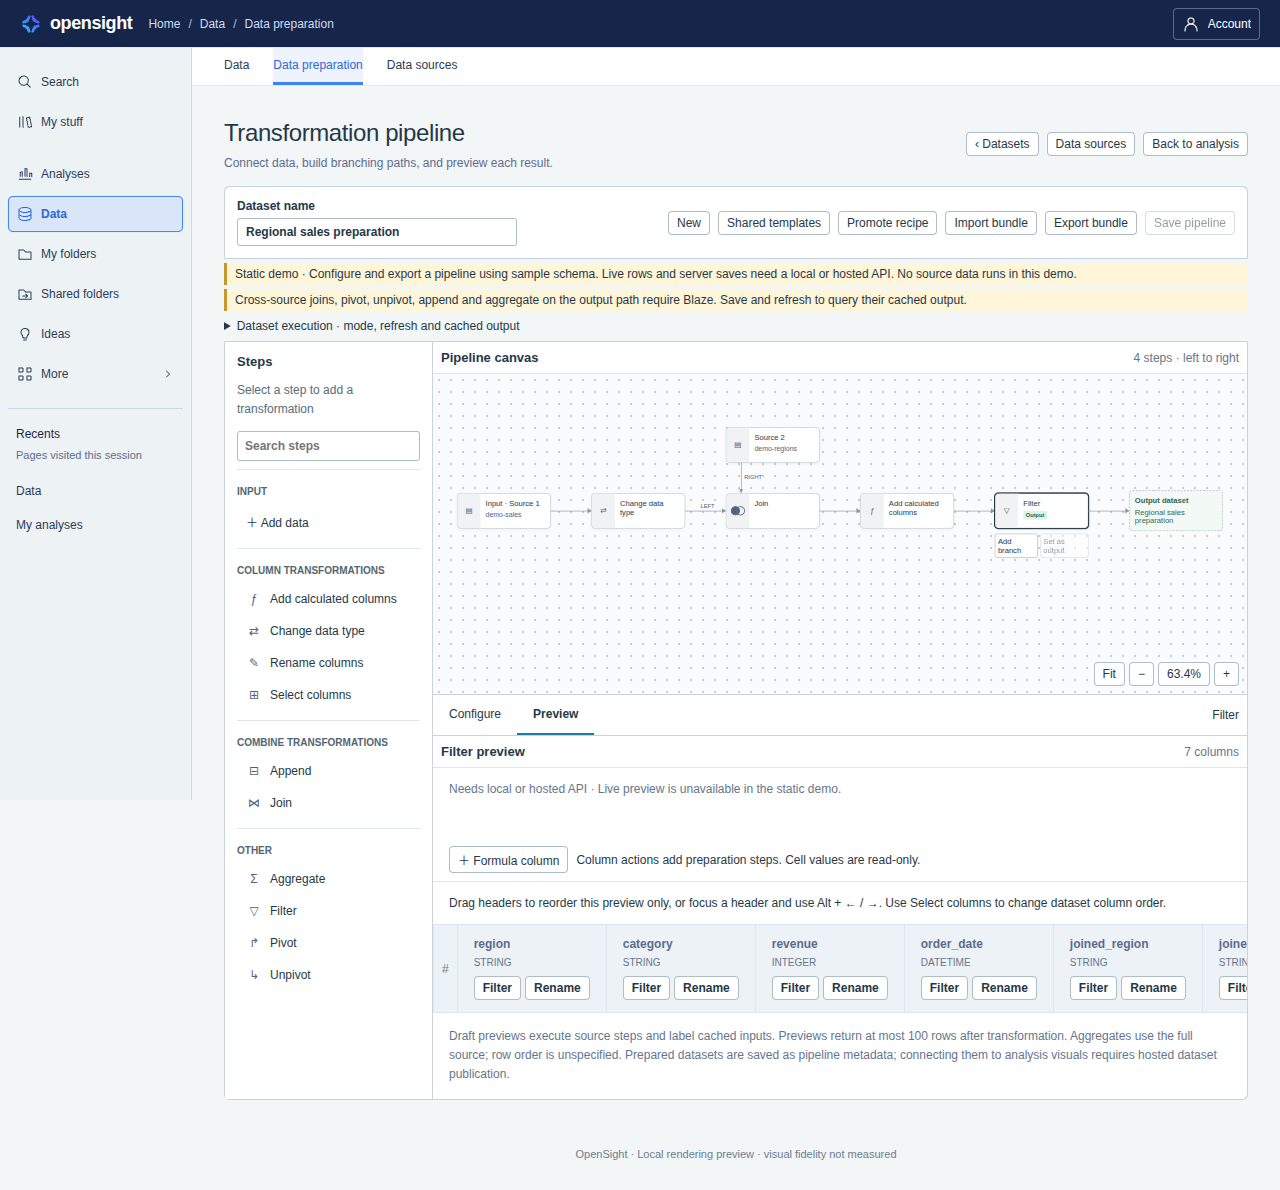
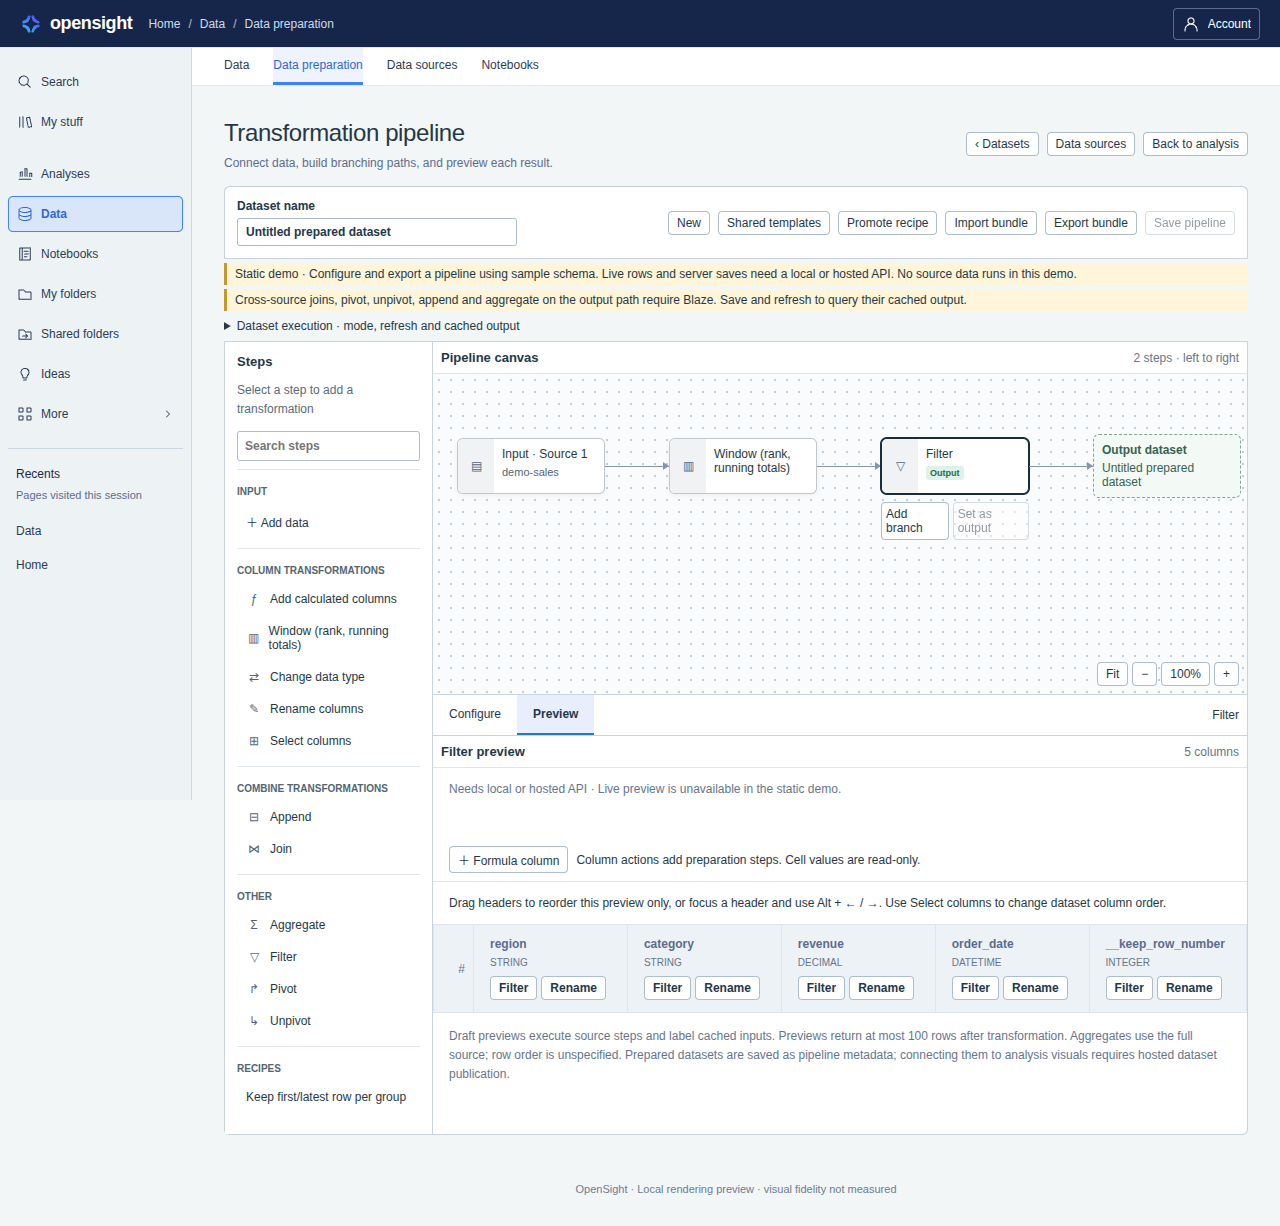
Issue 278 item 5: document semantics and record full verification

diff --git a/docs/data-prep.md b/docs/data-prep.md
@@ -1,4 +1,4 @@
-# Dataset preparation (issues #9, #11, #14, #17, #18, and #58)
+# Dataset preparation (issues #9, #11, #14, #17, #18, #58, and #278)
 
 The Preview tab also offers [spreadsheet-style column actions](familiar-surface.md)
 for formula columns, filters, and renames (#156), all using the operations below.
@@ -7,7 +7,7 @@ The Data preparation view builds a branching transformation pipeline over source
 from the connector registry. Open it from Data sources → Prepare data, the mode
 picker, or the analysis editor's Data → Prepare data menu. The persistent left
 **Steps** panel groups Input, Column transformations, Combine transformations
-and Other. The canvas shows resolved left-input paths and one
+Other, and Recipes. The canvas shows resolved left-input paths and one
 node per connected or prepared input, with LEFT/RIGHT labels on join connections.
 Secondary source nodes sit above their consuming step; earlier-step right inputs
 remain selectable links to their existing result. Repeated joins show distinct
@@ -57,7 +57,8 @@ Primary `input` and a join's `config.source` may also be
 to reuse an earlier result in the same pipeline, including a joined result. Their
 left side defaults to the preceding stage and can use an explicit `from` reference. Moving/removing a referenced step leaves
 an explicit validation error. Existing string references and version-1 bundles
-remain valid. Append configuration is unchanged.
+remain valid. Append still accepts `{source}`; optional `duplicates` selects `keep`
+(the default) or `dedupe` without changing existing pipelines.
 
 Source IDs are references, never SQL, credentials, URLs, or filesystem paths.
 The host resolves them to existing connector bindings. An imported bundle cannot
@@ -170,11 +171,93 @@ expressions use the Phase 2c parser, type system, and per-dialect function libra
 | `select` | `columns` | Keep a nonempty ordered column list. Missing/duplicate names fail. |
 | `filter` | `filters` | AND of `{columnName, value, operator?}` or `{columnName, values}`. EQUALS, GREATER_THAN_OR_EQUAL_TO, LESS_THAN_OR_EQUAL_TO; lists support equality only. Values must match the type. Empty lists match nothing; null never matches. Boolean predicates are unsupported. Dates use ISO dates or UTC timestamps. |
 | `calculate` | `name`, `expression` | Add a typed row expression. Visual aggregation, level-aware and table calculations are rejected here; their existing visual post-processing is unchanged. |
+| `window` | Structured `{name, function, valueColumn?, partitionBy, orderBy, frameBefore?, frameAfter?, buckets?, offset?}` or advanced `{name, expression}` | Adds one typed window column, retaining all input columns. Explicit step-local ordering is required; see below. |
 | `aggregate` | `groupBy`, `measures` | Measures are `{column, name, aggregation}`; SUM, AVG, COUNT, MIN, MAX. Empty group list aggregates the full input. COUNT counts nonnull column values. SUM/AVG require numeric input. Empty/all-null input follows SQL aggregate semantics. |
 | `join` | `source`, `joinType`, `keys`, exactly one of `columns` or `prefix` | inner/left/right/full equijoin. Keys are `{left,right}`, combined with AND and requiring identical types. All left columns are retained; outer joins extend unmatched sides with nulls. Null keys do not match; duplicate keys multiply rows. Right keys are not coalesced into left keys. |
-| `append` | `source` | UNION ALL; identical names and types required, order aligned by name. Duplicate rows are retained. |
+| `append` | `source`, optional `duplicates: "keep" \| "dedupe"` | Absent/keep uses UNION ALL; dedupe uses UNION over all output columns, including nulls. Identical names and types are required in both modes, aligned by name. |
 | `pivot` | `groupBy`, `column`, `value`, `aggregation`, `values` | Values are explicit `{value,name}` output definitions with unique typed keys. Conditional aggregation produces a stable schema. Unlisted/null keys contribute no measure; their groups can still appear. No data-dependent column discovery. |
 | `unpivot` | `columns`, `nameColumn`, `valueColumn` | Selected columns must share a type. Each input row produces one row per selected column. Names become values, null cells are kept, and unselected columns repeat. |
+
+### Window configuration (#278)
+
+**Window (rank, running totals)** adds a column without collapsing its input.
+The structured editor has a function, output name, value column when applicable,
+**Partition by (restart for each)** and an ordered, reorderable **Order by** list
+with per-column `asc`/`desc` direction. Partitions and ordering come exclusively
+from the step; preview sorting and upstream grouping never supply either.
+Both DuckDB and Postgres compile native window SQL. Window alone does not require
+Blaze; upstream materialization requirements still apply.
+
+```json
+{
+  "id": "running-sales", "kind": "window",
+  "config": {
+    "name": "running_sales", "function": "runningTotal", "valueColumn": "sales",
+    "partitionBy": ["region"],
+    "orderBy": [{"column": "date", "direction": "asc"}, {"column": "id", "direction": "asc"}]
+  }
+}
+```
+
+| Function | Value and settings | Result |
+| --- | --- | --- |
+| `rowNumber`, `rank`, `denseRank` | No value column | INTEGER; rank preserves peer ties, dense rank has no gaps |
+| `ntile` | Required positive `buckets`; no value column | INTEGER bucket |
+| `runningTotal`, `runningAverage` | Numeric `valueColumn`; ROWS from unbounded preceding through current row | DECIMAL, matching aggregate SUM/AVG casts |
+| `movingSum`, `movingAverage` | Numeric `valueColumn`; nonnegative `frameBefore`/`frameAfter`, each defaulting to 0 | DECIMAL; ROWS includes the current row, clipped at partition boundaries |
+| `lag`, `lead` | Any typed `valueColumn`; positive `offset`, default 1 | Preserves the input type; missing neighbors yield null |
+
+Numeric inputs are INTEGER or DECIMAL. Counts are integers at most 2,147,483,647,
+matching the common dialect argument range. Inapplicable settings are forbidden,
+including value columns for ranking/buckets, frames for non-moving functions,
+offsets outside lag/lead, and buckets outside ntile. Missing columns, invalid
+numeric types, duplicate output names and outputs exceeding 256 columns fail
+with named prep errors. SQL aggregate null behavior applies to running/moving
+functions. Both dialects use `NULLS LAST` for either direction.
+
+**Ordering rule:** every function requires at least one explicit Order by column.
+An empty list (or advanced OVER without ORDER BY) fails before SQL execution with
+`PREP_WINDOW_ORDER_REQUIRED` at the config's `orderBy`/`expression` path, including
+when previewing an earlier step. For stable row numbers and row-relative results,
+authors must include unique tie-breaker columns within each partition. This is
+the brief's nonempty-order validation rule: source metadata has no unique-key
+contract, so compilation cannot verify uniqueness of actual data. Tied row-number
+orders are not proven deterministic; the UI makes the tie-breaker requirement
+explicit. Rank/dense rank deliberately retain their configured peer groups.
+
+**Advanced mode** uses exactly `{name, expression}`. The expression carries its
+entire OVER clause; no structured fields may accompany it. A dedicated bounded,
+non-recursive parser accepts one of:
+
+- `ROW_NUMBER()`, `RANK()`, `DENSE_RANK()`, `NTILE(positive_integer)`.
+- `LAG(column[, positive_integer])`, `LEAD(column[, positive_integer])`.
+- `SUM(column)`, `AVG(column)` with an explicit supported ROWS frame.
+
+Each call is followed by `OVER ([PARTITION BY column, ...] ORDER BY column
+[ASC|DESC], ... [ROWS BETWEEN ...])`. Keywords are case-insensitive, omitted
+directions mean ASC, and column references are exact schema names: either bare
+ASCII identifiers (`[A-Za-z_][A-Za-z_0-9]*`) or SQL double-quoted identifiers with
+embedded quotes doubled. SUM/AVG require either `ROWS BETWEEN UNBOUNDED PRECEDING
+AND CURRENT ROW` for a running calculation, or `ROWS BETWEEN n PRECEDING AND m
+FOLLOWING` for a moving calculation; CURRENT ROW is also accepted for either
+zero bound. Other functions forbid frames. Expressions are limited to 10,000
+characters / 4,096 tokens and the same 256-entry lists as structured configs.
+
+For example: `SUM("sales") OVER (PARTITION BY "region" ORDER BY "date", "id"
+ROWS BETWEEN 2 PRECEDING AND CURRENT ROW)`. Multiple calls, nesting, arithmetic,
+comments, arbitrary SQL, RANGE frames and non-window expressions fail closed
+with `UNSUPPORTED_PREP_STEP`; malformed structured settings use
+`INVALID_PREP_PIPELINE`, and missing columns/type mismatches use
+`PREP_SCHEMA_MISMATCH`. No raw expression text is interpolated into SQL. The
+ordinary Calculate expression language is unchanged. Switching editor modes
+retains each mode's independent draft.
+
+**Keep first/latest row per group** inserts two steps: rowNumber followed by an
+EQUALS 1 filter. Its generated `__keep_row_number` column gains a suffix if needed
+to avoid a case-insensitive collision. Configure the window's partition columns
+and order (ascending for first, descending for latest, with tie-breakers); the
+recipe intentionally starts without order and displays the named error until
+configured. The number column remains in the output; a Select step can remove it.
 
 **Deliberate difference from QuickSight — append schema leniency (#19).**
 QuickSight's Append aligns columns by name and tolerates differing column

diff --git a/docs/issue-278-gap-notes.md b/docs/issue-278-gap-notes.md
@@ -1,0 +1,118 @@
+# Issue #278 — prep Window and append dedupe
+
+Built on `work/issue-278-window-append-dedupe` from `b6f180c9` under the
+supplied run brief. No dependencies, AWS calls, external network access, merge,
+push or changes to `SOLUTION_DESIGN.md`. No #279/#280 scope was implemented.
+
+## Behavior and boundaries
+
+[Dataset preparation](data-prep.md#window-configuration-278) documents the exact
+structured and advanced shapes, the ten functions, bounds, types, explicit
+partition/order semantics, null placement and the two-step recipe. Advanced
+mode uses `{name, expression}` with the entire OVER clause inside the expression.
+A dedicated bounded parser accepts only the supported calls and frames; it
+never changes the ordinary calculated-field expression language or forwards raw
+SQL. Append's optional `duplicates` is `keep` or `dedupe`; omission preserves
+existing UNION ALL SQL. Both modes retain the identical-name/type schema check.
+
+The compiler follows the brief's explicit nonempty-order validation rule:
+`PREP_WINDOW_ORDER_REQUIRED` rejects every function without its own order. This
+is **not proof of unique ordering**: existing column metadata carries no unique
+keys. Authors must supply unique tie-breakers for deterministic row numbers and
+row-relative calculations. This limitation is disclosed in the UI and semantics
+doc; data-dependent tie rejection is not implemented. The brief's broader
+"guarantee" wording cannot be established by the specified metadata-only rule.
+
+Both dialects support every function. The tests execute DuckDB and local PGlite
+(Postgres), including nulls, tied ranks, mixed directions, type preservation,
+frames, offsets, quoting and grammar rejection. Integer arguments are capped at
+2,147,483,647 for the common native dialect range. Moving bounds default to zero;
+the structured editor starts a moving window at one row before/current row.
+SUM/AVG use the same floating-point casts and DECIMAL result convention as the
+existing aggregate compiler. NULLS LAST is explicit for both directions.
+
+Blaze policy is unchanged: a window is a single-input CTE transform and stays on
+the direct path. A policy regression covers the window/filter recipe. Existing
+upstream requirements still apply. The recipe helper avoids name collisions and
+insertion validates the 50-step budget atomically before changing the draft.
+
+## Visual review
+
+Rebuilt `packages/web/dist/opensight-demo.html` and embed artifacts with
+`npm run build:demo --workspace @opensight/web`. The local static demo still
+shows schema-only previews and the need for a local/hosted API; it was not
+presented as a deployed server.
+
+Compared captures with the prior `docs/images/data-prep.png` and supplied
+`lookfeel-references/qs-2026/qs-data-prep-new.jpg`: the left grouped step picker,
+dotted graph canvas and bottom Configure/Preview panel remain intact. Window
+configuration uses the existing compact form controls and reorderable column
+lists. The advanced toggle's checkbox alignment was corrected during review.
+Existing differences in navigation, chrome, spacing and graph layout remain;
+QuickSight visual fidelity is not measured. No new visual defect was identified
+for a separate issue; no remote issue was filed under the no-network instruction.
+
+The README hero GIF was regenerated with a local adaptation of
+`~/workspace/tools/screenshots/readme-gif.mjs` against the rebuilt demo, using its
+FFmpeg palette workflow. `docs/images/data-prep.png` now includes Window and the
+recipe in the picker and the two-step graph. Browser checks cover the recipe's
+missing-order error, structured controls, advanced validation, append duplicates,
+the honest static preview, no horizontal overflow, no page errors and no external
+HTTP requests. Temporary scripts/captures are in the ignored
+`.opensight/issue-278-verification/` directory.
+
+## Verification
+
+Final focused run: **118 passed / 0 failed / 0 skipped**. It includes bundle
+validation, shared prep/window/branch/executor tests, canvas/editor/recipe tests,
+and Blaze policy. Log: `/tmp/issue-278-focused.log`. All new tests are picked up
+by existing package test globs in root `npm test`. Strict TypeScript and the
+static demo/embed builds passed.
+
+Full root `npm test` exited **0** with `TZ=UTC`, `TMPDIR=/tmp`, `DATABASE_URL`
+unset and `OPENSIGHT_CHROMIUM` pointing to the installed Playwright headless
+shell. Node reporters total **5,603 passed / 0 failed / 37 skipped** (5,640 tests,
+zero cancelled/todo). The Python SDK also passed **32/32**. Combined root totals:
+**5,635 passed / 0 failed / 37 skipped** (5,672 tests).
+
+| Suite | Passed | Failed | Skipped |
+| --- | ---: | ---: | ---: |
+| API | 1,461 | 0 | 35 |
+| Bundle parser | 211 | 0 | 0 |
+| CLI | 73 | 0 | 0 |
+| Embedding SDK | 10 | 0 | 0 |
+| TypeScript headless SDK | 28 | 0 | 0 |
+| Python headless SDK | 32 | 0 | 0 |
+| MCP server | 74 | 0 | 0 |
+| O interpreter | 42 | 0 | 0 |
+| Parity | 11 | 0 | 0 |
+| Query engine | 854 | 0 | 2 |
+| Web | 2,729 | 0 | 0 |
+| Root conformance/site | 110 | 0 | 0 |
+| **Total including Python** | **5,635** | **0** | **37** |
+
+All skips are live-Postgres checks: 36 need `DATABASE_URL` and one needs a live
+TLS PostgreSQL server. No browser tests skipped. Local loopback/browser execution
+required the sandbox override. The first foreground attempt received SIGTERM
+during API tests before producing totals; the complete persistent rerun above
+is the reported result. Its log and exit status are retained at
+`/tmp/issue-278-npm-test.log` and `/tmp/issue-278-npm-test.exit`.
+
+## Checkpoints
+
+- `2fcd0ca4` — item 1: window step types and validation.
+- `afb404bd` — item 2: bounded parser, shared SQL compiler and direct-path policy test.
+- `58a38e72` — item 3: opt-in full-row append dedupe.
+- `a30e8a37` — item 4: canvas configurator, recipe, icon and configuration/execution tests.
+- `42ea6f6b` — follow-up item 4: atomic recipe step-budget guard and toggle alignment.
+- Item 5 checkpoint: semantics, changelog, visual artifacts and verification record.
+
+## Changed files
+
+- Parser: `packages/bundle-parser/src/prep.ts`, `packages/bundle-parser/test/prep.test.mjs`.
+- Compiler: `packages/query-engine/src/prep.ts`, `packages/query-engine/src/prep-window.ts`, `packages/query-engine/test/prep.test.mjs`, `packages/query-engine/test/prep-window.test.mjs`.
+- Direct-path policy regression: `packages/api/test/blaze-policy.test.mjs`.
+- Canvas: `packages/web/src/data-prep.ts`, `packages/web/src/DataPrep.tsx`, `packages/web/src/PrepStepEditor.tsx`, `packages/web/src/PrepWindowEditor.tsx`, `packages/web/src/PrepIcons.tsx`, `packages/web/src/style.css`.
+- Web tests: `packages/web/test/data-prep.test.mjs`, `packages/web/test/prep-canvas-followup.test.mjs`, `packages/web/test/prep-window.test.mjs`.
+- Capture expectations: `packages/web/scripts/capture-prep-canvas.mjs`, `packages/web/scripts/capture-prep-canvas-followup.mjs`.
+- Documentation and images: `README.md`, `CHANGELOG.md`, `docs/data-prep.md`, `docs/issue-278-gap-notes.md`, `docs/images/data-prep.png`, `docs/images/opensight-tour.gif`.

diff --git a/README.md b/README.md
@@ -10,7 +10,7 @@ bidirectional asset compatibility — connect data, prepare datasets, build
 analyses and dashboards, and ask questions in natural language. Self-hosted;
 no AWS required.
 
-![OpenSight tour: dashboard, Ask O, analysis editor, and data tools](docs/images/opensight-tour.gif)
+![OpenSight tour: dashboard, Ask O, data preparation, and data sources](docs/images/opensight-tour.gif)
 
 *Above: the offline demo — a dashboard, Ask O answering "sum sales by region",
 the analysis editor, data tools, and the Metrics tab's API requirement.*
@@ -257,7 +257,13 @@ original calculation remains unchanged, and provenance records its source.
 
 ![Calculation promotion into the governed metric form using a real local API and synthetic team sales](docs/images/governed-metric-form.png)
 
-![Data preparation canvas with hosted preview requirements](docs/images/data-prep.png)
+Prep **Window** steps add ranks, running/moving calculations, lag/lead and
+buckets through structured controls or a bounded advanced expression. A
+**Keep first/latest row per group** recipe adds row numbering and its filter;
+Append can optionally remove full-row duplicates. See the
+[configuration and ordering rules](docs/data-prep.md#window-configuration-278).
+
+![Window recipe on the data preparation canvas with local or hosted preview requirements](docs/images/data-prep.png)
 
 Saved prep recipes can be proposed as **shared templates**. Owners/admins review
 and publish them; editors start new datasets by binding their own inputs. The

diff --git a/CHANGELOG.md b/CHANGELOG.md
@@ -21,6 +21,8 @@ Unreleased entries into a new version section (see AGENTS.md §1).
 
 ### Added
 
+- Dataset preparation now offers structured and bounded advanced Window steps for ranking, running/moving calculations, lag/lead and buckets, a Keep first/latest row per group recipe, and optional full-row append deduplication (issue #278).
+
 - Persona Journey 11 covers notebook authoring, governed SQL totals, published run views, explicit re-runs after data changes, calibrated result byte limits and history eviction, plus the hosted availability boundary; it records the current hosted 503/error-banner regression against the designed unavailable notice (issue #277).
 
 - RDS, Aurora and Redshift auto-discovery is now implemented as a library discovery service over the RDS API (issue #274): DB instances and clusters in the configured region are classified by engine into the matching manual connector (PostgreSQL, MySQL, MariaDB, Redshift manual), returning endpoints and identifiers only — never credentials — and a discovered resource becomes a source config built from user-supplied environment variable names, validated by the manual connector's own rules. Fake SDK coverage verifies classification, pagination and the no-credentials rule; hosted provisioning and live AWS verification remain follow-on work.
